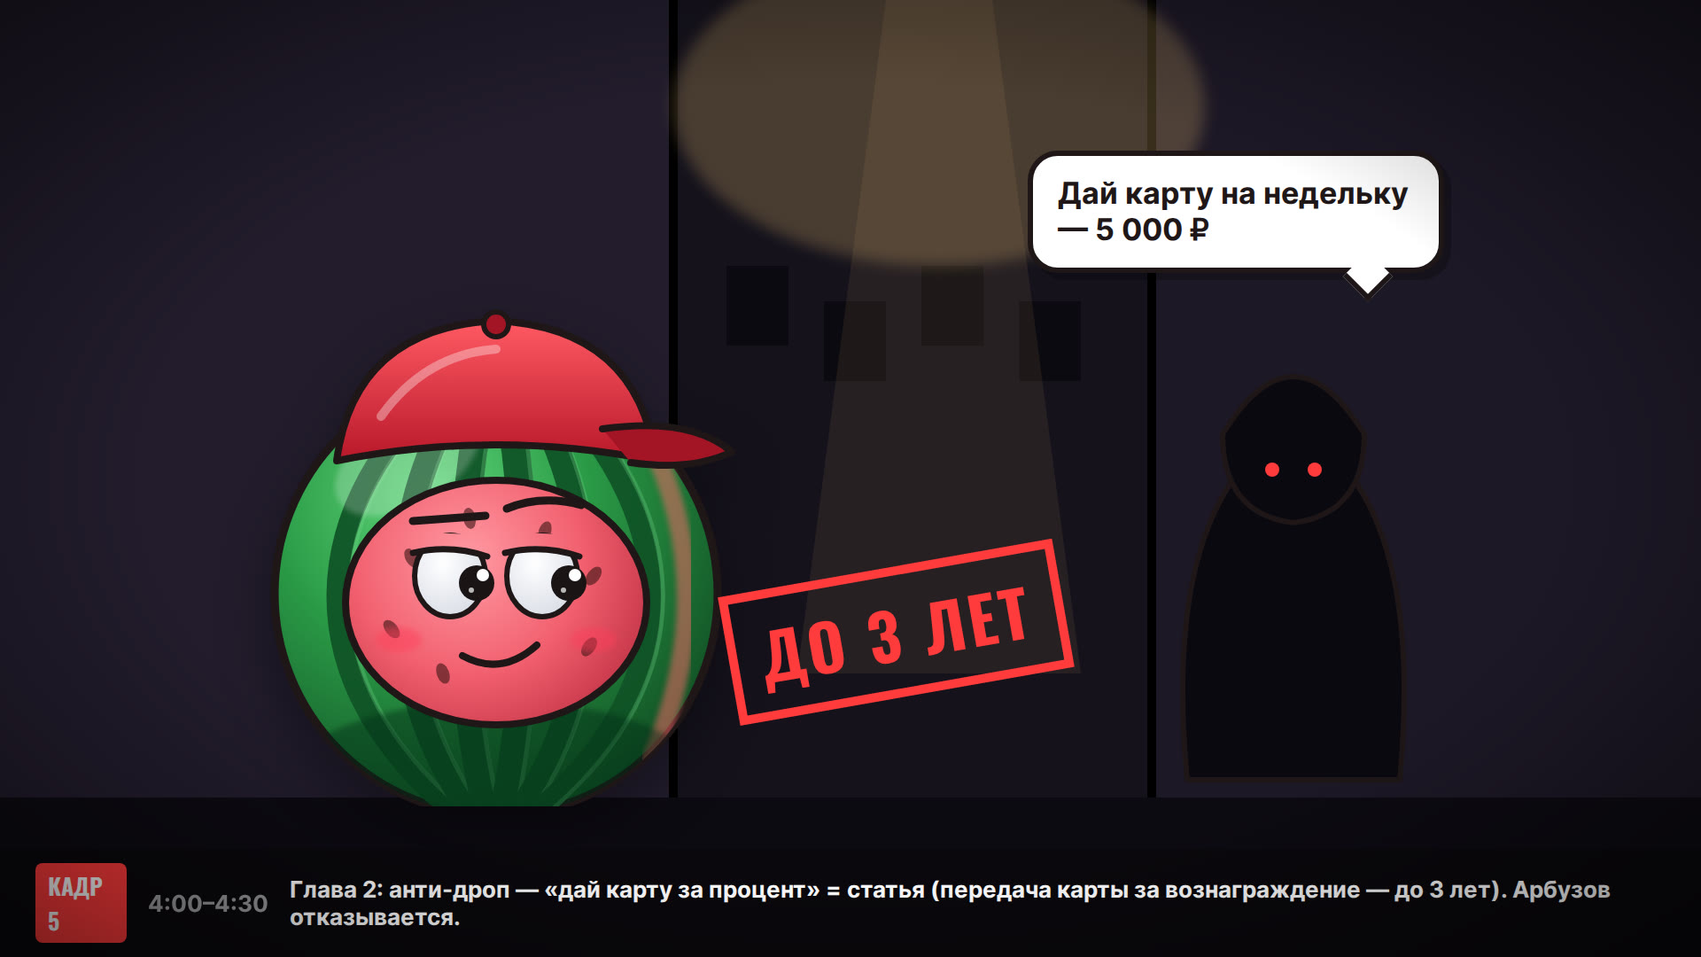
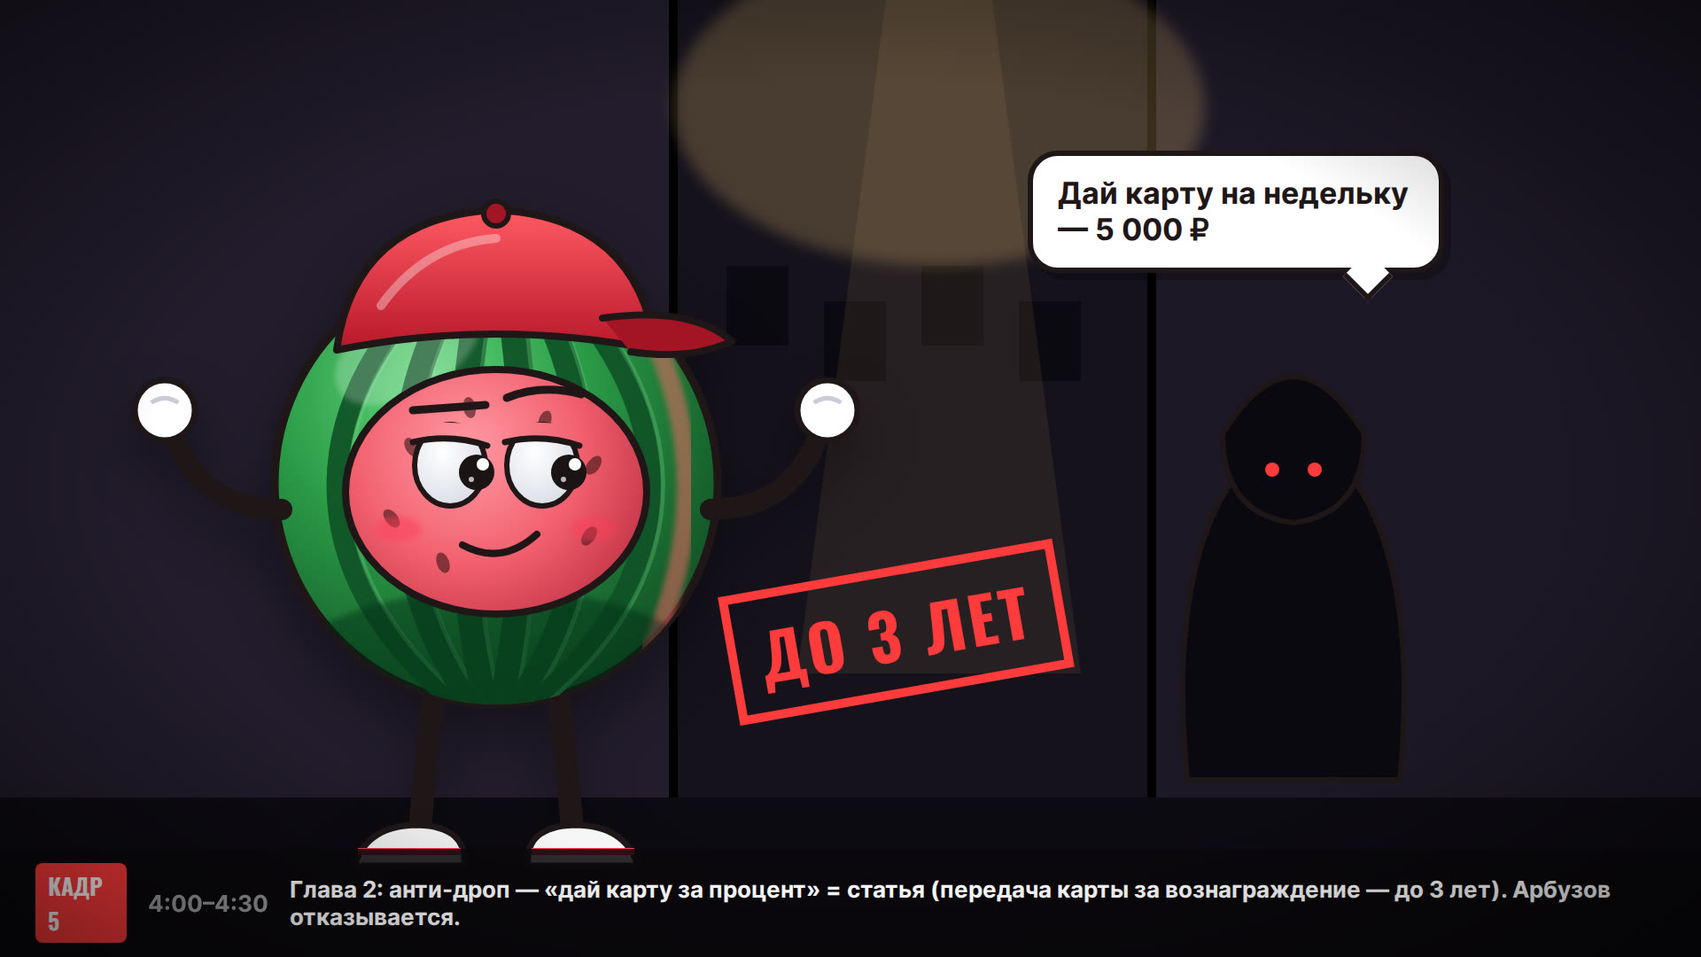
Arbuzov HD gets arms and legs (6 poses); storyboard #6 redrawn with poses
Claude-Session: https://claude.ai/code/session_01RfCfKDkbyGyDNmw4SWPkFj

Changed region(s): [[0.1562, 0.2139, 0.4375, 0.9167], [0.0625, 0.3972, 0.125, 0.4583], [0.4688, 0.3972, 0.5, 0.4583]]

diff --git a/youtube/06-money-you-skip/board/board.html b/youtube/06-money-you-skip/board/board.html
@@ -72,7 +72,9 @@ const envelope = (x, y, r, label, glow, s = 1) => `<div class="a" style="left:${
 const card = (x, y, r, c1, c2, s = 1) => `<div class="a" style="left:${x}px;top:${y}px;width:330px;height:208px;transform:rotate(${r}deg) scale(${s});transform-origin:0 0;border-radius:22px;border:5px solid ${OL};background:linear-gradient(135deg,${c1},${c2});box-shadow:0 20px 34px rgba(0,0,0,.4);overflow:hidden">
   <div class="a" style="inset:0;background:linear-gradient(115deg,rgba(255,255,255,.35),transparent 40%)"></div><div class="a" style="left:28px;top:64px;width:56px;height:42px;border-radius:9px;background:linear-gradient(135deg,#fff3b0,#d9a632);border:3px solid ${OL}"></div>
   <div class="a nw" style="left:28px;bottom:26px;font:700 22px I;letter-spacing:.14em;color:rgba(255,255,255,.95)">2200 •••• 2026</div></div>`;
-const hero = (x, y, w, mood, look = 0, rim = "#ffd27a") => `<div class="a" style="left:${x}px;top:${y}px;filter:drop-shadow(0 30px 30px rgba(0,0,0,.35))">${ArbuzHD.svg({ mood, look, rim, w, h: w * 640 / 600 })}</div>`;
+// x, y, w — рамка головы (как раньше, 600×640); руки и ноги дорисовываются вокруг (владелец 14.10: «сделаем руки и ноги»)
+const hero = (x, y, w, mood, look = 0, rim = "#ffd27a", arm = "down", legs = true) => { const k = w / 600;
+  return `<div class="a" style="left:${x - 130 * k}px;top:${y + 50 * k - (legs ? 55 : 0)}px;filter:drop-shadow(0 30px 30px rgba(0,0,0,.35))">${ArbuzHD.svg({ mood, look, rim, limbs: true, arm, w: 860 * k, h: 820 * k }).replace(legs ? "@@" : /<path d="M232 618[\s\S]*?stroke="#ff3b4f" stroke-width="8"\/>[\s\S]*?stroke="#ff3b4f" stroke-width="8"\/>/, "")}</div>`; };
 const hand = (x, y) => `<div class="a" style="left:${x - 30}px;top:${y - 30}px;width:60px;height:60px;border-radius:50%;background:#fff;border:6px solid ${OL}"></div>`;
 const arm = (d, w = 18) => `<svg class="a" style="left:0;top:0" width="1920" height="1080"><path d="${d}" fill="none" ${st(w)}/></svg>`;
 const label = (n, t, time) => `<div class="a" style="left:0;right:0;bottom:0;padding:16px 40px;background:rgba(10,8,12,.86);display:flex;gap:24px;align-items:center;font:700 26px I;color:#fff">
@@ -83,8 +85,8 @@ const grain = `<div class="a" style="inset:0;background:${noise(.22)};mix-blend-
 const S = {
   1: () => {   // хук: та же кухня, что понравилась
     P(`<img class="a" src="../../characters/hybrid/bg/_placeholder_kitchen.png" style="left:0;top:0;width:1920px;height:1080px">`);
-    P(hero(600, 150, 700, "smirk", 16) + arm("M1110 640 Q 1150 700 1166 740") + arm("M1150 560 Q 1260 560 1336 720"));
-    P(phone(1250, 690, 10, push("Налоговая", "+19 500 ₽", "возврат за учёбу"), .62) + hand(1336, 730));
+    P(phone(1240, 400, 10, push("Налоговая", "+19 500 ₽", "возврат за учёбу"), .62));
+    P(hero(600, 150, 700, "smirk", 16, "#ffd27a", "phone", false));
     P(bubble(120, 380, "Тебе уже должны деньги. Ты просто их не забираешь.", 520));
     P(label(1, "Хук: Арбузов на кухне, пуш «+19 500 ₽». Фраза: «Пока ты ищешь подработку, у тебя под носом лежат деньги…»", "0:00–0:30"));
   },
@@ -94,7 +96,7 @@ const S = {
       <rect x="80" y="520" width="1060" height="260" rx="14" fill="#f4f1ea" ${st(7)}/><rect x="80" y="500" width="1060" height="40" rx="10" fill="#d7d2c6" ${st(6)}/>
       <rect x="140" y="230" width="140" height="260" rx="12" fill="#2a3a48" ${st(6)}/><rect x="160" y="260" width="100" height="70" rx="6" fill="#7fd6ff"/><text x="210" y="306" text-anchor="middle" font-family="O" font-weight="700" font-size="30" fill="#0b2a3a">А012</text><rect x="175" y="360" width="70" height="14" rx="4" fill="#ffe9a8"/>
       ${floor(780, "#8a7a6a")}${lampLight}`));
-    P(hero(560, 210, 560, "happy", 0));
+    P(hero(560, 210, 560, "happy", 0, "#ffd27a", "wave"));
     P(card(1000, 380, -10, "#ffcf3f", "#e9a400", .8) + card(1150, 470, 8, "#ff5a4a", "#c8140b", .8));
     P(tag(980, 230, -8, "БОНУС НОВИЧКУ", "+1 000 ₽", true, .8) + tag(1300, 330, 7, "БОНУС НОВИЧКУ", "+2 000 ₽", false, .8));
     P(chapter(1, "БАНК ПЛАТИТ ЗА ЗНАКОМСТВО"));
@@ -105,7 +107,7 @@ const S = {
       ${floor(820)}${lampLight}
       <g transform="translate(330 300)"><path d="M0 0 H 260 V 30 Q 260 160 150 230 Q 260 300 260 430 V 460 H 0 V 430 Q 0 300 110 230 Q 0 160 0 30 Z" fill="#e8f4ff" fill-opacity=".7" ${st(9)}/><path d="M40 60 H 220 Q 210 150 130 200 Q 50 150 40 60 Z" fill="#e9b45a"/><path d="M60 420 Q 130 330 200 420 Z" fill="#e9b45a"/><rect x="-20" y="-24" width="300" height="30" rx="8" fill="#8a5a2b" ${st(6)}/><rect x="-20" y="454" width="300" height="30" rx="8" fill="#8a5a2b" ${st(6)}/></g>
       <text x="460" y="880" text-anchor="middle" font-family="Unb" font-weight="900" font-size="64" fill="${OL}">180 ДНЕЙ</text>`));
-    P(hero(800, 230, 560, "shock", -10));
+    P(hero(800, 230, 560, "shock", -10, "#ffd27a", "shrug"));
     P(bubble(1180, 640, "Я для вас новый клиент?", 470, "left"));
     P(label(3, "Глава 1: ловушка «новый клиент» — песочные часы 180 дней и брошенная анкета. Совет: спроси поддержку до оформления.", "1:10–1:50"));
   },
@@ -114,7 +116,7 @@ const S = {
       <rect x="60" y="220" width="420" height="300" rx="10" fill="#2b2050" ${st(6)}/>${[0, 1, 2].map(k => `<rect x="${90 + k * 130}" y="250" width="110" height="160" fill="${["#ff6b78", "#7fd6ff", "#ffe066"][k]}" opacity=".85"/>`).join("")}
       <path d="M0 760 Q 960 700 1920 760 V 1080 H 0 Z" fill="#4a3a6e"/><rect x="0" y="800" width="900" height="280" rx="30" fill="#ff8a5b" ${st(7)}/><rect x="20" y="760" width="860" height="80" rx="30" fill="#ffa57a" ${st(6)}/>
       ${lampLight}`));
-    P(hero(260, 260, 560, "smirk", 18));
+    P(hero(260, 220, 560, "smirk", 18, "#ffd27a", "phone"));
     P(phone(860, 220, -6, `<div class="a" style="left:16px;right:16px;top:60px;font:700 20px I;color:#6b7280">Чат «Общага 4 этаж»</div>
       <div class="a" style="left:16px;right:60px;top:110px;padding:14px;border-radius:18px;background:#fff;font:700 22px/1.25 I;color:${OL}">Кто хотел карту? Вот ссылка 👇 <span style="color:#2f5bea">bank.ru/ref/arbuz</span></div>
       <div class="a" style="left:60px;right:16px;top:270px;padding:14px;border-radius:18px;background:#d9f7c8;font:700 22px/1.25 I;color:${OL}">О, как раз собирался!</div>`, .95));
@@ -129,14 +131,14 @@ const S = {
       <rect y="900" width="1920" height="180" fill="#0d0b12"/>
       <!-- тень в капюшоне -->
       <g transform="translate(1340 320)"><path d="M0 560 Q -30 240 120 160 Q 270 240 240 560 Z" fill="#0a0910" ${st(6)}/><path d="M40 170 Q 120 40 200 170 Q 200 260 120 270 Q 40 260 40 170 Z" fill="#0a0910" ${st(6)}/><circle cx="96" cy="210" r="8" fill="#ff3b3b"/><circle cx="144" cy="210" r="8" fill="#ff3b3b"/></g>`));
-    P(hero(260, 270, 600, "smirk", 30, "#ff6b6b"));
+    P(hero(260, 200, 600, "smirk", 30, "#ff6b6b", "shrug"));
     P(bubble(1160, 170, "Дай карту на недельку — 5 000 ₽", 470, "right"));
     P(`<div class="a nw" style="left:820px;top:640px;transform:rotate(-10deg);padding:10px 26px;border:10px solid #ff3b3b;color:#ff3b3b;font:700 72px O;letter-spacing:.06em">ДО 3 ЛЕТ</div>`);
     P(label(5, "Глава 2: анти-дроп — «дай карту за процент» = статья (передача карты за вознаграждение — до 3 лет). Арбузов отказывается.", "4:00–4:30"));
   },
   6: () => {   // реклама своего Telegram посередине (как у амоБлога)
     P(svg(`${wall("#7fd6ff", "#2f8fd8")}${Array.from({ length: 30 }, (_, k) => `<path d="M${960 + Math.cos(k / 30 * 6.28) * 2000} ${540 + Math.sin(k / 30 * 6.28) * 2000} L 960 540 L ${960 + Math.cos((k + .5) / 30 * 6.28) * 2000} ${540 + Math.sin((k + .5) / 30 * 6.28) * 2000} Z" fill="#fff" opacity=".1"/>`).join("")}`));
-    P(hero(220, 260, 600, "happy", 20, "#fff2a8"));
+    P(hero(220, 190, 600, "happy", 20, "#fff2a8", "point"));
     P(phone(900, 170, 6, `<div class="a" style="left:0;right:0;top:0;height:120px;background:#2aa3e0"></div><div class="a" style="left:20px;top:56px;width:60px;height:60px;border-radius:50%;background:#ff3b3b;border:4px solid #fff;overflow:hidden">${ArbuzHD.svg({ mood: "smirk", w: 60, h: 64 })}</div>
       <div class="a nw" style="left:94px;top:62px;font:900 22px Unb;color:#fff">Арбузов</div><div class="a nw" style="left:94px;top:92px;font:700 15px I;color:#d9f0ff">канал · акции банков</div>
       <div class="a" style="left:16px;right:16px;top:150px;padding:14px;border-radius:16px;background:#fff;font:700 19px/1.3 I;color:${OL}">Свежие бонусы этой недели: <b>5 акций</b>, сроки и условия — в одном посте</div>
@@ -152,7 +154,7 @@ const S = {
     P(card(240, 600, -4, "#2b2b35", "#0d0d12", 1.1));
     P(`<div class="a" style="left:300px;top:520px;font:900 70px Unb;color:#fff;text-shadow:0 4px 0 ${OL}">z z Z</div>`);
     [[260, 560, -8], [400, 580, 10]].forEach(([x, y, r]) => P(`<div class="a" style="left:${x}px;top:${y}px;width:200px;height:96px;transform:rotate(${r}deg);border-radius:10px;background:linear-gradient(135deg,#f6c49a,#e48a5a);border:5px solid ${OL};display:flex;align-items:center;justify-content:center;font:900 40px Unb;color:#8a3a14">5000</div>`));
-    P(hero(820, 260, 520, "smirk", -16));
+    P(hero(820, 260, 520, "smirk", -16, "#ffd27a", "point"));
     P(`<div class="a" style="left:1320px;top:560px;width:300px;height:300px;border-radius:40px 40px 60px 60px;background:linear-gradient(180deg,rgba(200,240,255,.6),rgba(120,200,255,.5));border:7px solid ${OL}"><div class="a" style="left:20px;right:20px;bottom:20px;height:150px;border-radius:30px;background:repeating-linear-gradient(0deg,#f0b72f 0 18px,#ffd84d 18px 36px);border:4px solid ${OL}"></div></div>`);
     P(tag(1250, 380, -8, "НАКОПИТЕЛЬНЫЙ", "≈15 %", true, .85) + tag(1560, 870, 6, "ЗА 3 МЕС · ПРИМЕР", "+1 162 ₽", false, .7));
     P(chapter(3, "ТВОИ ДЕНЬГИ СПЯТ"));
@@ -162,7 +164,7 @@ const S = {
     P(svg(`${wall("#ffe6a8", "#ffc46b")}${[0, 1, 2, 3].map(r => `<rect x="80" y="${150 + r * 140}" width="1760" height="16" fill="#8a5a2b"/>${Array.from({ length: 22 }, (_, k) => `<rect x="${100 + k * 78}" y="${70 + r * 140}" width="56" height="80" rx="6" fill="${["#ff6b78", "#7fd6ff", "#9be26b", "#ffd84d", "#c79bff"][(k + r) % 5]}" ${st(3)}/>`).join("")}`).join("")}
       <rect x="0" y="700" width="1920" height="380" fill="#3a3f4a"/><rect x="0" y="690" width="1920" height="30" fill="#2b2f38"/>${table(800, "tiles")}
       <rect x="1220" y="560" width="200" height="240" rx="20" fill="#2b2b35" ${st(6)}/><rect x="1240" y="580" width="160" height="90" rx="8" fill="#9be26b"/><text x="1320" y="640" text-anchor="middle" font-family="O" font-weight="700" font-size="40" fill="#0b2a0b">QR</text>${lampLight}`));
-    P(hero(440, 250, 560, "shock", 20));
+    P(hero(440, 230, 560, "shock", 20, "#ffd27a", "shrug"));
     [[1000, 360, "годен до 31.10"], [1120, 470, "сгорит"], [1500, 330, "12 мес"]].forEach(([x, y, t]) => P(`<div class="a" style="left:${x}px;top:${y}px">${coin(0, 0, 1.2).replace('class="a"', 'class="a" ').replace(/left:0px;top:0px;/, "position:relative;")}<div class="nw" style="margin-top:6px;padding:4px 10px;background:#ff3b3b;color:#fff;font:700 22px O;border-radius:6px;transform:rotate(-4deg)">${t}</div></div>`));
     P(`<div class="a nw" style="left:1180px;top:840px;transform:rotate(-6deg);padding:8px 20px;border:8px solid #ff3b3b;color:#ff3b3b;font:700 52px O;background:rgba(255,255,255,.85)">QR — БЕЗ КЭШБЭКА</div>`);
     P(chapter(4, "КЭШБЭК С ДАТОЙ ПОРЧИ"));
@@ -171,7 +173,7 @@ const S = {
   9: () => {   // глава 5: налоговая — три двери
     P(svg(`${wall("#d9e6d0", "#a9c49a")}${[0, 1, 2].map(k => { const x = 260 + k * 520; return `<rect x="${x}" y="200" width="300" height="600" rx="10" fill="${["#c46a3c", "#3f6fb0", "#5aa86a"][k]}" ${st(7)}/><circle cx="${x + 250}" cy="520" r="16" fill="#ffd84d" ${st(4)}/><rect x="${x + 40}" y="150" width="220" height="60" rx="8" fill="#fff" ${st(5)}/><text x="${x + 150}" y="194" text-anchor="middle" font-family="O" font-weight="700" font-size="40" fill="${OL}">${["УЧЁБА", "СПОРТ", "ВРАЧ"][k]}</text>`; }).join("")}
       ${floor(800, "#b9a98a")}${lampLight}`));
-    P(hero(700, 360, 520, "happy", 0));
+    P(hero(700, 280, 520, "happy", 0, "#ffd27a", "point"));
     P(`<div class="a" style="left:1360px;top:250px;width:440px;padding:24px;border-radius:26px;background:#2b2f38;border:6px solid ${OL};box-shadow:0 24px 40px rgba(0,0,0,.4)">
       <div style="padding:16px;border-radius:12px;background:#b9f5a3;font:900 46px/1.1 Unb;color:#0b2a0b;text-align:right">19 500 ₽</div>
       <div style="margin-top:14px;font:700 28px I;color:#fff">150 000 × 13 % = 19 500</div></div>`);
@@ -183,21 +185,21 @@ const S = {
     P(svg(`<rect width="1920" height="1080" fill="#2a1450"/>${Array.from({ length: 24 }, (_, k) => `<circle cx="960" cy="540" r="${60 + k * 60}" fill="none" stroke="${k % 2 ? "#7a3cff" : "#ff5ab4"}" stroke-width="20" opacity="${.5 - k * .018}"/>`).join("")}`));
     [[160, 160, -14, "2023"], [1440, 150, 12, "2024"], [1500, 640, -8, "2025"]].forEach(([x, y, r, yr]) => P(`<div class="a" style="left:${x}px;top:${y}px;width:260px;transform:rotate(${r}deg);border:6px solid ${OL};border-radius:10px;overflow:hidden;box-shadow:0 20px 30px rgba(0,0,0,.4)"><div style="background:#c23b2f;padding:10px;font:700 48px O;color:#fff;text-align:center">${yr}</div><div style="background:#efe7d3;height:150px;background-image:linear-gradient(#bfb6a0 2px,transparent 2px),linear-gradient(90deg,#bfb6a0 2px,transparent 2px);background-size:40px 40px"></div></div>`));
     P(`<div class="a" style="left:560px;top:250px;width:800px;height:640px;border-radius:50%;background:radial-gradient(circle,#e9eef5,#9aa6b8);border:10px solid ${OL};box-shadow:0 0 80px #ff5ab4"></div><div class="a" style="left:690px;top:330px;width:540px;height:480px;border-radius:50%;background:radial-gradient(circle,#2a1450,#7a3cff);border:8px solid ${OL}"></div>`);
-    P(hero(720, 330, 480, "shock", 0, "#ff5ab4"));
+    P(hero(720, 330, 480, "shock", 0, "#ff5ab4", "up"));
     P(envelope(140, 560, -10, "ВЫЧЕТ 2023", true, .9) + envelope(300, 760, 8, "ВЫЧЕТ 2024", true, .8));
     P(chapter(6, "ДЕНЬГИ ИЗ ПРОШЛОГО"));
     P(label(10, "Глава 6: Арбузов в «машине времени» из барабана стиральной машины, календари 2023–2025 и конверты — вычет за 3 прошлых года.", "11:00–12:30"));
   },
   11: () => {  // итог: конверты на столе
     P(`<img class="a" src="../../characters/hybrid/bg/_placeholder_kitchen.png" style="left:0;top:0;width:1920px;height:1080px;filter:brightness(.8)">`);
-    P(hero(650, 120, 620, "happy", 0));
+    P(hero(650, 120, 620, "happy", 0, "#ffd27a", "up", false));
     P(envelope(120, 760, -8, "БОНУСЫ", true, .9) + envelope(420, 790, 4, "НАКОПИТЕЛЬНЫЙ", true, .9) + envelope(1180, 780, -4, "ВЫЧЕТ", true, .9) + envelope(1480, 760, 9, "КЭШБЭК", false, .9));
     P(`<div class="a" style="left:60px;top:60px;padding:16px 28px;background:#fff;border:6px solid ${OL};border-radius:20px;font:700 40px/1.3 O;color:${OL};transform:rotate(-2deg)">1. НОВИЧКУ ПЛАТЯТ<br>2. ДЕНЬГИ НЕ ДОЛЖНЫ СПАТЬ<br>3. НАЛОГОВАЯ ВЕРНЁТ</div>`);
     P(label(11, "Итог: 3 пункта, конверты на столе загораются по очереди. «Сохрани ролик и отправь другу».", "12:30–13:10"));
   },
   12: () => {  // финал
     P(svg(`${wall("#ff8a5b", "#e2283f")}${Array.from({ length: 30 }, (_, k) => `<path d="M${960 + Math.cos(k / 30 * 6.28) * 2000} ${540 + Math.sin(k / 30 * 6.28) * 2000} L 960 600 L ${960 + Math.cos((k + .5) / 30 * 6.28) * 2000} ${540 + Math.sin((k + .5) / 30 * 6.28) * 2000} Z" fill="#ffe066" opacity=".12"/>`).join("")}`));
-    P(hero(650, 240, 620, "smirk", 0, "#ffe066"));
+    P(hero(650, 170, 620, "smirk", 0, "#ffe066", "wave"));
     P(`<div class="a nw" style="left:960px;top:60px;transform:translateX(-50%);font:700 150px/1 O;color:#fff;text-shadow:0 8px 0 #7a0f12,0 16px 30px rgba(0,0,0,.4)">ЗАБИРАЙ СВОЁ</div>`);
     P(coin(380, 420, 1.4) + coin(1420, 380, 1.2) + coin(1500, 640, .9) + coin(300, 700, 1));
     P(label(12, "Финал: «Я Арбузов. Забирай своё». Ссылка на Telegram в описании, концовка 5 с под рекомендации.", "13:10–13:30"));

diff --git a/youtube/characters/hd/arbuzhd.js b/youtube/characters/hd/arbuzhd.js
@@ -1,5 +1,6 @@
 /* Арбузов в выбранном стиле роликов (владелец 14.10: «рисовка которую ты кидал, она мне очень понравилась. Такую будем использовать в роликах» — amo_test: кухня и превью «ТЕБЕ ДОЛЖНЫ»).
-   ArbuzHD.svg({ mood: smirk|shock|happy, look, rim, w, h }) — голова с объёмом, полосами корки, контровым светом. */
+   ArbuzHD.svg({ mood: smirk|shock|happy, look, rim, w, h, limbs, arm }) — с объёмом, полосами корки, контровым светом;
+   limbs: true — руки (белые перчатки) и ноги (кеды), arm: down|point|up|phone|wave|shrug. */
 (function () {
 const OL = "#1e1717";
 const st = (w = 6) => `stroke="${OL}" stroke-width="${w}" stroke-linejoin="round" stroke-linecap="round"`;
@@ -18,7 +19,23 @@ function arbuzHD(o = {}) {
   const mouth = mood === "shock" ? `<ellipse cx="300" cy="478" rx="22" ry="30" fill="#5c1420" ${st(6)}/><ellipse cx="300" cy="490" rx="12" ry="9" fill="#d9536a"/>`
     : mood === "happy" ? `<path d="M250 456 Q 300 520 350 456 Z" fill="#5c1420" ${st(6)}/><path d="M270 482 Q 300 470 330 482 Q 300 506 270 482" fill="#e46b80"/>`
     : `<path d="M262 470 Q 306 494 346 458" fill="none" ${st(8)}/>`;
-  return `<svg viewBox="0 0 600 640" width="${o.w || 600}" height="${o.h || 640}">
+  // руки и ноги (владелец 14.10: «давай ему сделаем руки и ноги»): o.limbs = true, o.arm = down | point | up | phone | wave | shrug
+  const L = !!o.limbs, arm = o.arm || "down", lim = (d, w = 24) => `<path d="${d}" fill="none" stroke="${OL}" stroke-width="${w}" stroke-linecap="round" stroke-linejoin="round"/>`;
+  const glove = (x, y, r = 34) => `<circle cx="${x}" cy="${y}" r="${r}" fill="#fff" ${st(7)}/><path d="M${x - r * .45} ${y - r * .25} Q ${x} ${y - r * .55} ${x + r * .45} ${y - r * .25}" fill="none" stroke="#c9ccd8" stroke-width="5"/>`;
+  const shoe = (x, y, f) => `<path d="M${x - 58 * f} ${y + 26} Q ${x - 62 * f} ${y - 18} ${x - 6 * f} ${y - 20} Q ${x + 52 * f} ${y - 20} ${x + 66 * f} ${y + 26} Z" fill="#f6f6f6" ${st(7)}/><path d="M${x - 54 * f} ${y + 10} H ${x + 62 * f}" stroke="#ff3b4f" stroke-width="8"/>`;
+  const ARMS = {
+    down:  [lim("M58 430 Q -20 520 6 618") + glove(6, 628), lim("M542 430 Q 620 520 594 618") + glove(594, 628)],
+    point: [lim("M58 430 Q -20 520 6 618") + glove(6, 628), lim("M542 420 Q 650 340 668 228") + glove(670, 216)],
+    up:    [lim("M58 420 Q -50 330 -40 206") + glove(-42, 194), lim("M542 420 Q 650 330 640 206") + glove(642, 194)],
+    phone: [lim("M58 430 Q -20 520 6 618") + glove(6, 628), lim("M542 440 Q 650 470 600 340") + glove(600, 328)],
+    wave:  [lim("M58 430 Q -20 520 6 618") + glove(6, 628), lim("M542 420 Q 660 360 690 250") + glove(694, 236)],
+    shrug: [lim("M58 430 Q -40 430 -70 330") + glove(-74, 318), lim("M542 430 Q 640 430 670 330") + glove(674, 318)],
+  }[arm];
+  const legs = L ? lim("M232 618 Q 222 700 214 788", 26) + lim("M368 618 Q 378 700 386 788", 26) + shoe(206, 806, -1) + shoe(394, 806, 1) : "";
+  const shadow = L ? `<ellipse cx="300" cy="836" rx="240" ry="26" fill="#000" opacity=".22"/>` : "";
+  const VB = L ? [-130, 50, 860, 820] : [0, 0, 600, 640];
+  const W = o.w || VB[2], H = o.h || Math.round(W * VB[3] / VB[2]);
+  return `<svg viewBox="${VB.join(" ")}" width="${W}" height="${H}">${shadow}${legs}
   <defs>
     <radialGradient id="rind${u}" cx="35%" cy="28%" r="80%"><stop offset="0" stop-color="#5fd77a"/><stop offset=".45" stop-color="#2a9a46"/><stop offset="1" stop-color="#0f4a22"/></radialGradient>
     <radialGradient id="face${u}" gradientUnits="userSpaceOnUse" cx="268" cy="362" r="215"><stop offset="0" stop-color="#ff9aa3"/><stop offset=".6" stop-color="#f2606f"/><stop offset="1" stop-color="#c8394b"/></radialGradient>
@@ -43,8 +60,9 @@ function arbuzHD(o = {}) {
   ${[[-95, -50], [-30, -95], [55, -80], [110, -30], [-118, 30], [105, 50], [-60, 80]].map(([x, y]) => `<ellipse cx="${300 + x}" cy="${410 + y}" rx="7" ry="12" fill="#3a1414" opacity=".6" transform="rotate(${x / 3} ${300 + x} ${410 + y})"/>`).join("")}
   <ellipse cx="190" cy="452" rx="26" ry="14" fill="#ff3d5a" opacity=".45" filter="url(#soft${u})"/><ellipse cx="410" cy="452" rx="26" ry="14" fill="#ff3d5a" opacity=".45" filter="url(#soft${u})"/>
   ${eye(248)}${eye(352)}${brows}${mouth}
+  ${L ? ARMS[0] + ARMS[1] : ""}
   </svg>`;
 }
 
-(typeof window !== "undefined" ? window : globalThis).ArbuzHD = { svg: arbuzHD };
+(typeof window !== "undefined" ? window : globalThis).ArbuzHD = { svg: arbuzHD, ratioFull: 820 / 860 };
 })();
